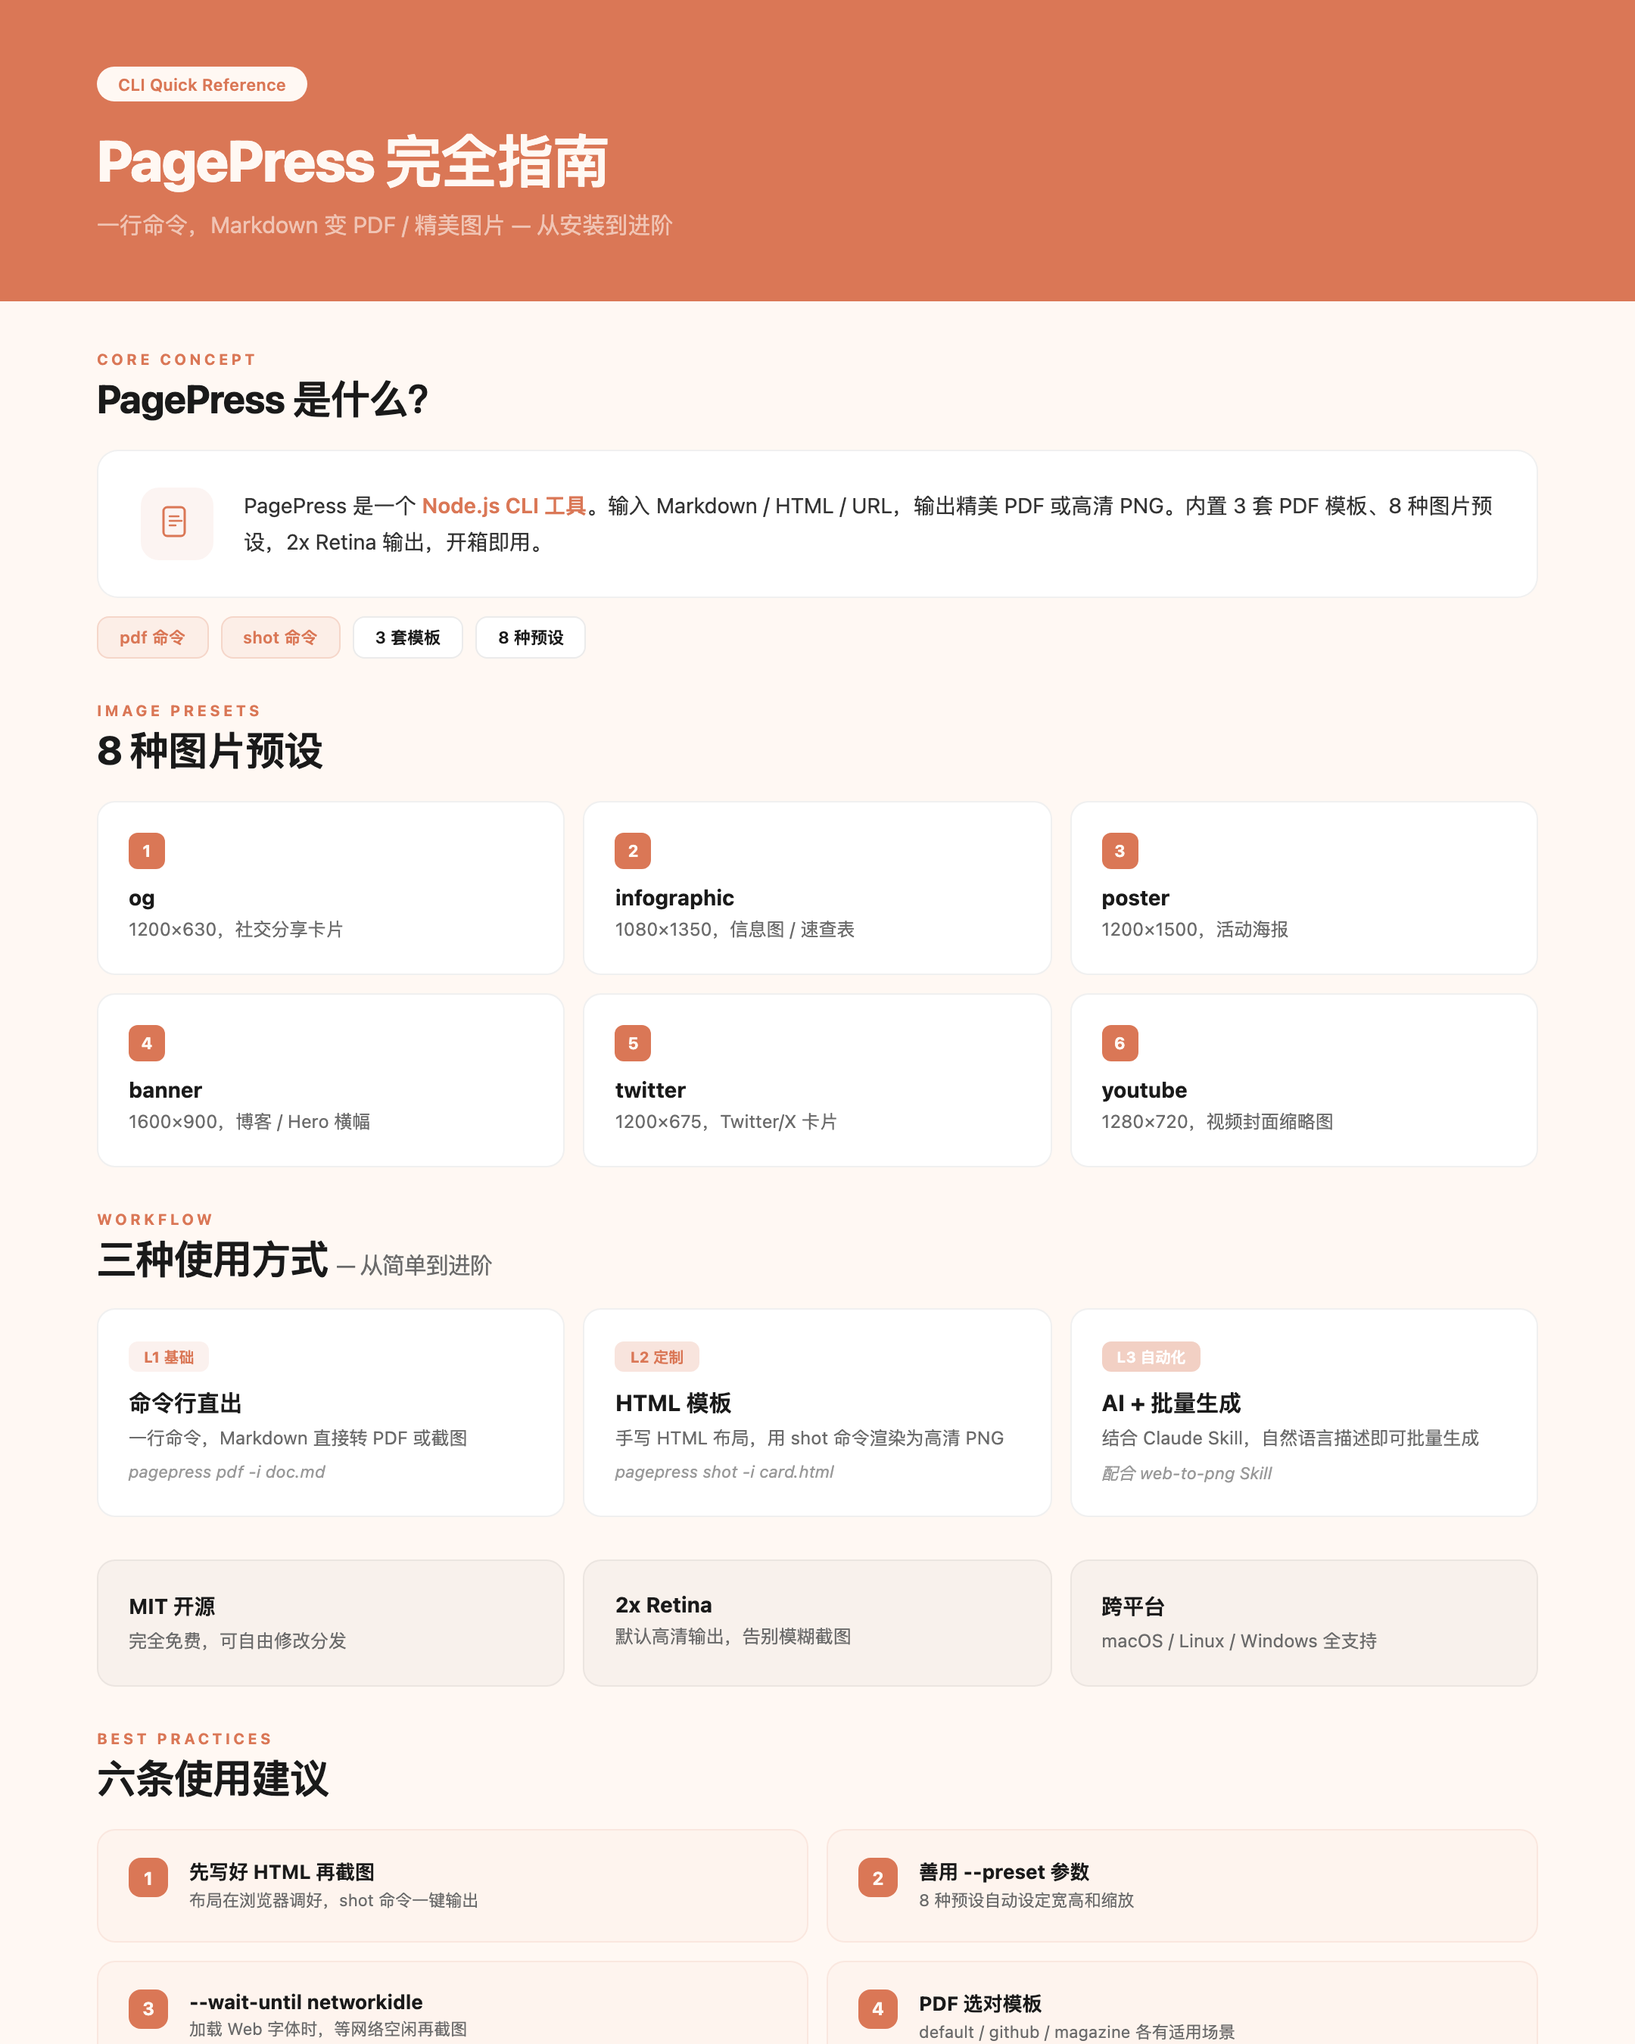
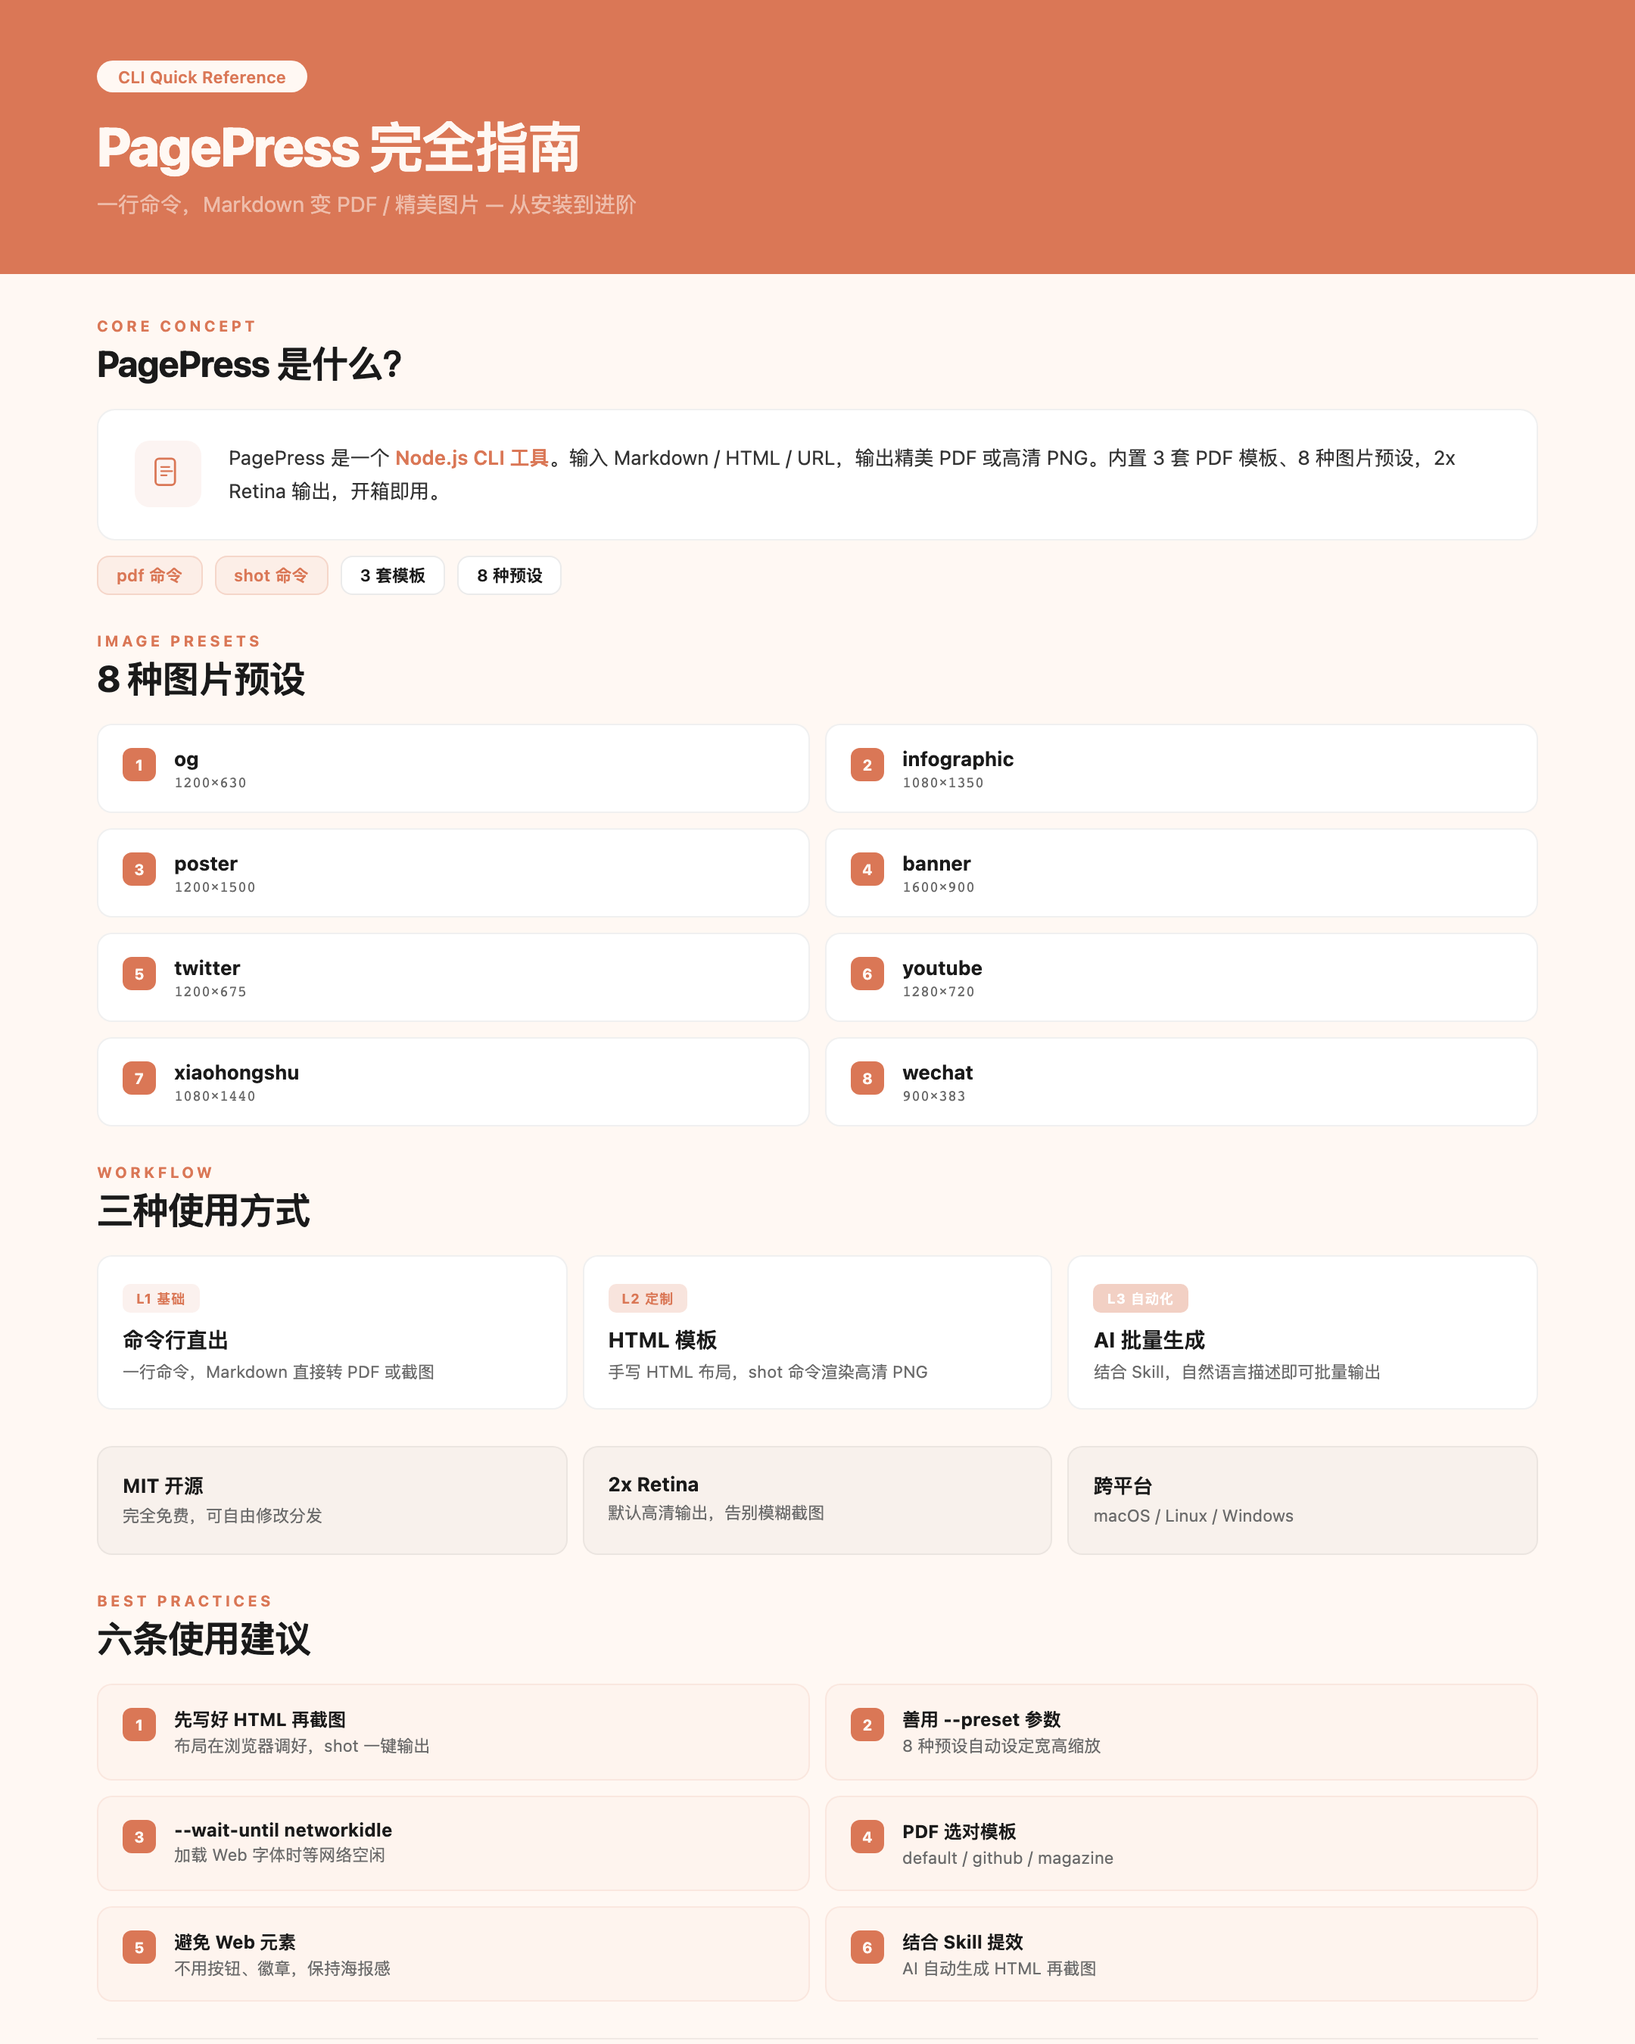
fix(examples): tighten infographic spacing to fit 1350px without overflow

diff --git a/examples/shot-infographic.html b/examples/shot-infographic.html
@@ -16,61 +16,58 @@
 /* ── banner ── */
 .banner{
   background:#DA7756;
-  padding:44px 64px 40px;
+  padding:40px 64px 36px;
   position:relative;overflow:hidden;
 }
 .banner-tag{
   display:inline-block;
   font-size:11px;font-weight:600;
   color:#DA7756;background:#FFF8F3;
-  padding:5px 14px;border-radius:20px;
-  margin-bottom:16px;
+  padding:4px 14px;border-radius:20px;
+  margin-bottom:14px;
 }
 .banner h1{
-  font-size:38px;font-weight:800;
+  font-size:36px;font-weight:800;
   color:#FFF8F3;letter-spacing:-1px;
-  line-height:1.2;margin-bottom:8px;
+  line-height:1.2;margin-bottom:6px;
 }
 .banner .sub{
-  font-size:15px;color:rgba(255,248,243,.6);line-height:1.5;
+  font-size:14px;color:rgba(255,248,243,.55);line-height:1.5;
 }
 
-/* ── content area ── */
-.content{padding:32px 64px 32px}
+/* ── content ── */
+.content{padding:28px 64px 28px}
 
-/* section header */
 .sh{
   font-size:10px;font-weight:700;
   letter-spacing:2px;text-transform:uppercase;
   color:#DA7756;margin-bottom:4px;
 }
 .st{
-  font-size:26px;font-weight:700;
+  font-size:24px;font-weight:700;
   letter-spacing:-.5px;line-height:1.3;
-  margin-bottom:16px;
+  margin-bottom:14px;
 }
-.st small{font-size:15px;font-weight:400;color:#6B6B6B}
 
 /* ── concept card ── */
 .concept{
   background:#fff;border:1px solid rgba(0,0,0,.06);
-  border-radius:14px;padding:24px 28px;
-  display:flex;align-items:flex-start;gap:20px;
-  margin-bottom:12px;
+  border-radius:12px;padding:20px 24px;
+  display:flex;align-items:flex-start;gap:18px;
+  margin-bottom:10px;
 }
 .concept-icon{
-  width:48px;height:48px;flex-shrink:0;
-  background:rgba(218,119,86,.08);border-radius:12px;
+  width:44px;height:44px;flex-shrink:0;
+  background:rgba(218,119,86,.08);border-radius:10px;
   display:flex;align-items:center;justify-content:center;
 }
-.concept-text{font-size:14px;line-height:1.7;color:#333}
+.concept-text{font-size:13px;line-height:1.7;color:#333}
 .concept-text strong{color:#DA7756;font-weight:600}
 
-/* tags row */
-.tags{display:flex;gap:8px;margin-bottom:28px}
+.tags{display:flex;gap:8px;margin-bottom:24px}
 .tag{
   font-size:11px;font-weight:600;
-  padding:5px 14px;border-radius:8px;
+  padding:4px 12px;border-radius:8px;
   border:1px solid rgba(0,0,0,.08);
   background:#fff;color:#1A1A1A;
 }
@@ -80,71 +77,72 @@
   color:#DA7756;
 }
 
-/* ── 2x3 grid cards ── */
-.grid6{display:grid;grid-template-columns:1fr 1fr 1fr;gap:12px;margin-bottom:28px}
+/* ── 2x4 preset grid ── */
+.grid8{display:grid;grid-template-columns:1fr 1fr;gap:10px;margin-bottom:24px}
 .g-card{
   background:#fff;border:1px solid rgba(0,0,0,.06);
-  border-radius:12px;padding:20px;
+  border-radius:10px;padding:14px 16px;
+  display:flex;align-items:flex-start;gap:12px;
 }
 .g-num{
   display:inline-flex;align-items:center;justify-content:center;
-  width:24px;height:24px;border-radius:6px;
+  width:22px;height:22px;border-radius:6px;
   background:#DA7756;color:#FFF8F3;
-  font-size:11px;font-weight:700;
-  margin-bottom:10px;
+  font-size:10px;font-weight:700;flex-shrink:0;
+  margin-top:1px;
 }
-.g-title{font-size:14px;font-weight:700;margin-bottom:4px}
-.g-desc{font-size:12px;color:#6B6B6B;line-height:1.5}
+.g-title{font-size:13px;font-weight:700;margin-bottom:1px}
+.g-meta{font-size:10px;color:#6B6B6B;font-family:'SF Mono',ui-monospace,monospace}
 
 /* ── 3-col level cards ── */
-.levels{display:grid;grid-template-columns:1fr 1fr 1fr;gap:12px;margin-bottom:28px}
+.levels{display:grid;grid-template-columns:1fr 1fr 1fr;gap:10px;margin-bottom:24px}
 .lv{
   background:#fff;border:1px solid rgba(0,0,0,.06);
-  border-radius:12px;padding:20px;
+  border-radius:10px;padding:16px;
 }
 .lv-tag{
   display:inline-block;
-  font-size:10px;font-weight:700;
-  padding:3px 10px;border-radius:6px;
-  margin-bottom:10px;
+  font-size:9px;font-weight:700;
+  padding:3px 9px;border-radius:5px;
+  margin-bottom:8px;letter-spacing:.5px;
 }
 .lv-tag.t1{background:rgba(218,119,86,.1);color:#DA7756}
 .lv-tag.t2{background:rgba(218,119,86,.2);color:#DA7756}
 .lv-tag.t3{background:rgba(218,119,86,.35);color:#fff}
-.lv-title{font-size:15px;font-weight:700;margin-bottom:4px}
-.lv-desc{font-size:12px;color:#6B6B6B;line-height:1.5}
-.lv-example{font-size:11px;color:#999;margin-top:6px;font-style:italic}
+.lv-title{font-size:14px;font-weight:700;margin-bottom:3px}
+.lv-desc{font-size:11px;color:#6B6B6B;line-height:1.5}
 
-/* ── highlight bar (3 cols) ── */
-.highlights{display:grid;grid-template-columns:1fr 1fr 1fr;gap:12px;margin-bottom:28px}
+/* ── highlight bar ── */
+.highlights{display:grid;grid-template-columns:1fr 1fr 1fr;gap:10px;margin-bottom:24px}
 .hl{
   background:rgba(26,26,26,.03);
   border:1px solid rgba(0,0,0,.05);
-  border-radius:12px;padding:20px;
+  border-radius:10px;padding:16px;
 }
-.hl-title{font-size:14px;font-weight:700;margin-bottom:4px}
-.hl-desc{font-size:12px;color:#6B6B6B;line-height:1.5}
+.hl-title{font-size:13px;font-weight:700;margin-bottom:3px}
+.hl-desc{font-size:11px;color:#6B6B6B;line-height:1.5}
 
-/* ── 2x3 numbered list ── */
-.grid-bp{display:grid;grid-template-columns:1fr 1fr;gap:12px;margin-bottom:28px}
+/* ── 2x3 best practices ── */
+.grid-bp{display:grid;grid-template-columns:1fr 1fr;gap:10px;margin-bottom:24px}
 .bp{
   background:rgba(218,119,86,.03);
   border:1px solid rgba(218,119,86,.1);
-  border-radius:12px;padding:18px 20px;
-  display:flex;align-items:flex-start;gap:14px;
+  border-radius:10px;padding:14px 16px;
+  display:flex;align-items:flex-start;gap:12px;
 }
 .bp-num{
   display:inline-flex;align-items:center;justify-content:center;
-  width:26px;height:26px;border-radius:8px;
+  width:22px;height:22px;border-radius:6px;
   background:#DA7756;color:#FFF8F3;
-  font-size:12px;font-weight:700;flex-shrink:0;
+  font-size:10px;font-weight:700;flex-shrink:0;
+  margin-top:1px;
 }
-.bp-title{font-size:13px;font-weight:700;margin-bottom:2px}
-.bp-desc{font-size:11px;color:#6B6B6B;line-height:1.5}
+.bp-title{font-size:12px;font-weight:700;margin-bottom:1px}
+.bp-desc{font-size:11px;color:#6B6B6B;line-height:1.4}
 
 /* ── footer ── */
 .footer{
-  padding-top:16px;border-top:1px solid rgba(0,0,0,.06);
+  padding-top:14px;border-top:1px solid rgba(0,0,0,.06);
   display:flex;justify-content:space-between;align-items:center;
 }
 .footer-src{font-size:11px;color:#6B6B6B}
@@ -155,7 +153,6 @@
 <body>
 <div id="container">
 
-  <!-- banner -->
   <div class="banner">
     <div class="banner-tag">CLI Quick Reference</div>
     <h1>PagePress 完全指南</h1>
@@ -169,7 +166,7 @@
     <div class="st">PagePress 是什么？</div>
     <div class="concept">
       <div class="concept-icon">
-        <svg width="24" height="24" viewBox="0 0 24 24" fill="none"><rect x="3" y="1" width="14" height="19" rx="2.5" stroke="#DA7756" stroke-width="1.5"/><path d="M7 7h6M7 10h8M7 13h4" stroke="#DA7756" stroke-width="1.2" stroke-linecap="round"/></svg>
+        <svg width="22" height="22" viewBox="0 0 24 24" fill="none"><rect x="3" y="1" width="14" height="19" rx="2.5" stroke="#DA7756" stroke-width="1.5"/><path d="M7 7h6M7 10h8M7 13h4" stroke="#DA7756" stroke-width="1.2" stroke-linecap="round"/></svg>
       </div>
       <div class="concept-text">
         PagePress 是一个 <strong>Node.js CLI 工具</strong>。输入 Markdown / HTML / URL，输出精美 PDF 或高清 PNG。内置 3 套 PDF 模板、8 种图片预设，2x Retina 输出，开箱即用。
@@ -182,63 +179,38 @@
       <span class="tag">8 种预设</span>
     </div>
 
-    <!-- S2: presets -->
+    <!-- S2: 8 presets -->
     <div class="sh">IMAGE PRESETS</div>
     <div class="st">8 种图片预设</div>
-    <div class="grid6">
-      <div class="g-card">
-        <div class="g-num">1</div>
-        <div class="g-title">og</div>
-        <div class="g-desc">1200×630，社交分享卡片</div>
-      </div>
-      <div class="g-card">
-        <div class="g-num">2</div>
-        <div class="g-title">infographic</div>
-        <div class="g-desc">1080×1350，信息图 / 速查表</div>
-      </div>
-      <div class="g-card">
-        <div class="g-num">3</div>
-        <div class="g-title">poster</div>
-        <div class="g-desc">1200×1500，活动海报</div>
-      </div>
-      <div class="g-card">
-        <div class="g-num">4</div>
-        <div class="g-title">banner</div>
-        <div class="g-desc">1600×900，博客 / Hero 横幅</div>
-      </div>
-      <div class="g-card">
-        <div class="g-num">5</div>
-        <div class="g-title">twitter</div>
-        <div class="g-desc">1200×675，Twitter/X 卡片</div>
-      </div>
-      <div class="g-card">
-        <div class="g-num">6</div>
-        <div class="g-title">youtube</div>
-        <div class="g-desc">1280×720，视频封面缩略图</div>
-      </div>
+    <div class="grid8">
+      <div class="g-card"><div class="g-num">1</div><div><div class="g-title">og</div><div class="g-meta">1200×630</div></div></div>
+      <div class="g-card"><div class="g-num">2</div><div><div class="g-title">infographic</div><div class="g-meta">1080×1350</div></div></div>
+      <div class="g-card"><div class="g-num">3</div><div><div class="g-title">poster</div><div class="g-meta">1200×1500</div></div></div>
+      <div class="g-card"><div class="g-num">4</div><div><div class="g-title">banner</div><div class="g-meta">1600×900</div></div></div>
+      <div class="g-card"><div class="g-num">5</div><div><div class="g-title">twitter</div><div class="g-meta">1200×675</div></div></div>
+      <div class="g-card"><div class="g-num">6</div><div><div class="g-title">youtube</div><div class="g-meta">1280×720</div></div></div>
+      <div class="g-card"><div class="g-num">7</div><div><div class="g-title">xiaohongshu</div><div class="g-meta">1080×1440</div></div></div>
+      <div class="g-card"><div class="g-num">8</div><div><div class="g-title">wechat</div><div class="g-meta">900×383</div></div></div>
     </div>
 
-    <!-- S3: workflow levels -->
+    <!-- S3: workflow -->
     <div class="sh">WORKFLOW</div>
-    <div class="st">三种使用方式 <small>— 从简单到进阶</small></div>
+    <div class="st">三种使用方式</div>
     <div class="levels">
       <div class="lv">
         <div class="lv-tag t1">L1 基础</div>
         <div class="lv-title">命令行直出</div>
         <div class="lv-desc">一行命令，Markdown 直接转 PDF 或截图</div>
-        <div class="lv-example">pagepress pdf -i doc.md</div>
       </div>
       <div class="lv">
         <div class="lv-tag t2">L2 定制</div>
         <div class="lv-title">HTML 模板</div>
-        <div class="lv-desc">手写 HTML 布局，用 shot 命令渲染为高清 PNG</div>
-        <div class="lv-example">pagepress shot -i card.html</div>
+        <div class="lv-desc">手写 HTML 布局，shot 命令渲染高清 PNG</div>
       </div>
       <div class="lv">
         <div class="lv-tag t3">L3 自动化</div>
-        <div class="lv-title">AI + 批量生成</div>
-        <div class="lv-desc">结合 Claude Skill，自然语言描述即可批量生成</div>
-        <div class="lv-example">配合 web-to-png Skill</div>
+        <div class="lv-title">AI 批量生成</div>
+        <div class="lv-desc">结合 Skill，自然语言描述即可批量输出</div>
       </div>
     </div>
 
@@ -254,7 +226,7 @@
       </div>
       <div class="hl">
         <div class="hl-title">跨平台</div>
-        <div class="hl-desc">macOS / Linux / Windows 全支持</div>
+        <div class="hl-desc">macOS / Linux / Windows</div>
       </div>
     </div>
 
@@ -262,33 +234,14 @@
     <div class="sh">BEST PRACTICES</div>
     <div class="st">六条使用建议</div>
     <div class="grid-bp">
-      <div class="bp">
-        <div class="bp-num">1</div>
-        <div><div class="bp-title">先写好 HTML 再截图</div><div class="bp-desc">布局在浏览器调好，shot 命令一键输出</div></div>
-      </div>
-      <div class="bp">
-        <div class="bp-num">2</div>
-        <div><div class="bp-title">善用 --preset 参数</div><div class="bp-desc">8 种预设自动设定宽高和缩放</div></div>
-      </div>
-      <div class="bp">
-        <div class="bp-num">3</div>
-        <div><div class="bp-title">--wait-until networkidle</div><div class="bp-desc">加载 Web 字体时，等网络空闲再截图</div></div>
-      </div>
-      <div class="bp">
-        <div class="bp-num">4</div>
-        <div><div class="bp-title">PDF 选对模板</div><div class="bp-desc">default / github / magazine 各有适用场景</div></div>
-      </div>
-      <div class="bp">
-        <div class="bp-num">5</div>
-        <div><div class="bp-title">图片设计避免 Web 元素</div><div class="bp-desc">不用按钮、徽章、链接，保持海报感</div></div>
-      </div>
-      <div class="bp">
-        <div class="bp-num">6</div>
-        <div><div class="bp-title">结合 Skill 提效</div><div class="bp-desc">安装 web-to-png Skill，AI 自动生成 HTML</div></div>
-      </div>
+      <div class="bp"><div class="bp-num">1</div><div><div class="bp-title">先写好 HTML 再截图</div><div class="bp-desc">布局在浏览器调好，shot 一键输出</div></div></div>
+      <div class="bp"><div class="bp-num">2</div><div><div class="bp-title">善用 --preset 参数</div><div class="bp-desc">8 种预设自动设定宽高缩放</div></div></div>
+      <div class="bp"><div class="bp-num">3</div><div><div class="bp-title">--wait-until networkidle</div><div class="bp-desc">加载 Web 字体时等网络空闲</div></div></div>
+      <div class="bp"><div class="bp-num">4</div><div><div class="bp-title">PDF 选对模板</div><div class="bp-desc">default / github / magazine</div></div></div>
+      <div class="bp"><div class="bp-num">5</div><div><div class="bp-title">避免 Web 元素</div><div class="bp-desc">不用按钮、徽章，保持海报感</div></div></div>
+      <div class="bp"><div class="bp-num">6</div><div><div class="bp-title">结合 Skill 提效</div><div class="bp-desc">AI 自动生成 HTML 再截图</div></div></div>
     </div>
 
-    <!-- footer -->
     <div class="footer">
       <div class="footer-src">npm i -g <a>@liustack/pagepress</a></div>
       <div class="footer-handle">@liustack</div>
